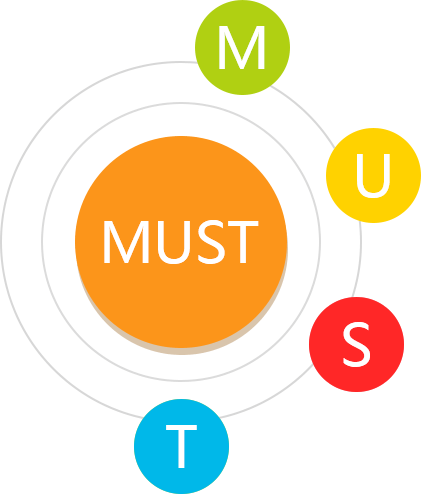
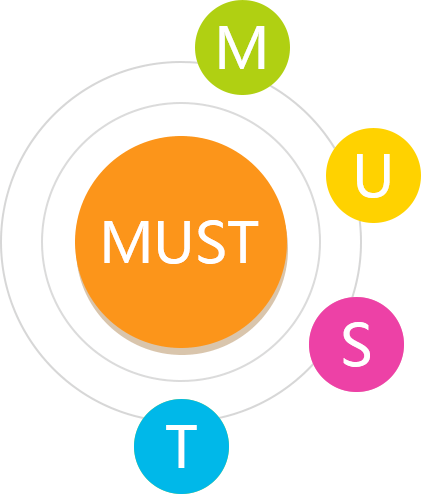
移动端头部

Changed region(s): [[0.7102, 0.5769, 0.9572, 0.8198]]

diff --git a/pags/public/header_s.html b/pags/public/header_s.html
@@ -1,0 +1,118 @@
+
+<!DOCTYPE html>
+<html lang="en">
+<head>
+    <meta charset="UTF-8">
+    <meta name="viewport" content="width=device-width, initial-scale=1.0">
+    <meta http-equiv="X-UA-Compatible" content="ie=edge">
+    <meta name="description" content="希望教育成立于2011年，以“MUST行为引导技术”为核心，旗下包括 “星希望康复中心”、“星希望网校”、“MUST研发中心”三大业务板块。致力于为孤独症儿童和家庭及康复训练师，提供评估、干预、培训一体化的专业服务。">
+    <meta name="keywords" content="自闭症、孤独症、儿童自闭症语言训练、自闭症儿童训练、自闭症儿童、自闭症儿童的特征、儿童孤独症障碍、孤独症儿童训练方法、自闭症儿童干预方法、轻微自闭症的训练方法、自闭症怎么治、自闭症儿童康复训练、自闭症干预方法、自闭症aba的训练方法、自闭症儿童康复中心、自闭症最佳干预时间">  
+    <title>星希望官网——15年专注于自闭症/孤独症家庭康复训练教育</title>
+    <link rel="stylesheet" href="/css/public/reset.css">
+    <link rel="stylesheet" href="/css/public/header_s.css" media="all" />
+    <script src="/js/plugins/jquery-1.11.3.js"></script>
+    <script type="text/javascript">
+        //移动端   设计图纸是750px
+        $(function(){
+                document.querySelector("html").style.opacity = 1;
+                $("html").css("fontSize",parseInt($(window).width()) / 7.5 +"px");
+                $(window).resize(function(){
+                    $("html").css("fontSize",parseInt($(window).width()) / 7.5 +"px");
+                    document.getElementsByTagName("html")[0].style.opacity = 1;
+
+                });
+            
+        });
+    </script>
+</head>
+<body>
+<header>
+    <ul class="header clearfix">
+        <li class="h-left fl"></li>
+        <li class="logo fl"></li>
+        <li class="h-right fr">
+            <p class="one">全国咨询热线</p>
+            <p class="two">010-52668752</p>     
+        </li>
+        <ul class="nav" id="nav">
+                <li class="list1 close">
+                    导航
+                   <div></div> 
+                </li>
+                <a href="javascript:"><li class="list1"> 首页</li></a>
+                <li class="list1 button">
+                    MUST课程体系
+                    <i></i>
+                    <ul class="list2">
+                        <a href="javascript:"><li>MUST技术</li></a>
+                        <a href="javascript:"><li>MUST课程</li></a>
+                        <a href="javascript:"><li>师资力量</li></a>
+                        <a href="javascript:"><li>成功案例</li></a>
+                    </ul>
+                </li>
+                <a href="javascript:"><li class="list1"> 星希望网校</li></a>
+                <li class="list1 button">
+                    关于我们
+                    <i></i>
+                    <ul class="list2">
+                        <a href="javascript:"><li>星希望简介</li></a>
+                        <a href="javascript:"><li>发展历程</li></a>
+                        <a href="javascript:"><li>创始人简介</li></a>
+                        <a href="javascript:"><li>品牌故事</li></a>
+                        <a href="javascript:"><li>所获荣誉</li></a>
+                        <a href="javascript:"><li>校区概况</li></a>
+                    </ul>
+                </li>
+                <li class="list1 button">
+                    新闻中心
+                    <i></i>
+                    <ul class="list2">
+                        <a href="javascript:"><li>最新动态</li></a>
+                        <a href="javascript:"><li>行业新闻</li></a>
+                        <a href="javascript:"><li>公益活动</li></a>
+                        <a href="javascript:"><li>媒体报道</li></a>
+                    </ul>
+                </li>
+                <li class="list1 button">
+                    爱心社
+                    <i></i>
+                    <ul class="list2">
+                        <a href="javascript:"><li>志愿者招募</li></a>
+                        <a href="javascript:"><li>爱心捐赠</li></a>
+                    </ul>
+                </li>
+                
+            </ul>
+        </ul>
+    </header>
+   <script>
+  
+   $(".h-left").click(function(){
+     $("#nav").css("display","block")
+   })
+   $(".close>div").click(function(){
+     $("#nav").css("display","none")
+   })
+   $(document).ready(function(e) {
+    $(".button").click(function(e) {
+        $(".list2").toggle();
+        $(this).css("background","#f5a94f");
+    })
+});
+
+// $(".nav .button").click(function(){
+    
+//     $(".nav .button").each(function(){
+//         if($(".list2").css('display') === 'none'){
+//             $(this).css("dispaly","block");
+//             $(this).parent(".button").css("background","#f5a94f");
+//         }else{
+//             $(this).css("dispaly","none")
+//             $(this).parent(".button").css("background","#f39800");
+//         }
+//     });
+//   });
+   </script>
+    
+</body>
+</html>

diff --git a/css/public/header_s.less b/css/public/header_s.less
@@ -1,0 +1,84 @@
+header{
+    width: 100%;
+    height: 100%;
+}
+.header{
+   width:7.3rem;
+   margin: 0 auto;
+   height:.66rem;
+   padding-top: .14rem;
+   .h-left{
+       width: .38rem;
+       height: .34rem;
+       margin-top: .1rem;
+       background: url(../../img/index/nav.png);
+       background-size: 100% 100%;
+      
+   }
+   .logo{
+        width: 1.18rem;
+        height:.58rem;
+        background: url(../../images/logo.png);
+        background-size: 100% 100%;
+        margin:  0 1.89rem 0 2.2rem;
+   }
+   .h-right{
+        width: 1.2rem;
+        height: .38rem;
+        font-size: .16rem;
+        line-height: .24rem;
+        color: #666666;
+        margin-top: .05rem;
+        .two{
+            color: #00b8e9;
+            font-weight: bold;
+        }
+   }
+   .nav{
+    width: 2rem;
+    background: #f39800;
+    position: fixed;
+    top:0;
+    left:0;
+    font-size: .16rem;
+    display: none;
+  .list1{
+    width: 100%;
+    padding: .22rem 0;
+    border-bottom:.01rem solid #e1910b;
+    font-size: .16rem;
+    color: #f7f7f7;
+    text-indent: .3rem;
+    position: relative;
+    line-height:.28rem;
+    div{
+        width: .2rem;
+        height: .2rem;
+        position: absolute;
+        top:.2rem;
+        right:.2rem;
+        background: url(../../img/index/close.png);
+        background-size: 100% 100%;
+    }
+    i{
+        width: .16rem;
+        height:.09rem;
+        position: absolute;
+        top:.26rem;
+        right:.16rem;
+        background: url(../../img/index/jt.png);
+        background-size: 100% 100%;
+    }
+  } 
+  .list2{
+      display: none;
+      font-size: .14rem;
+      line-height:.28rem;
+      a{
+          color: #ffecda;
+      }
+  } 
+ 
+ 
+}
+}

diff --git a/css/public/header_s.css b/css/public/header_s.css
@@ -1,0 +1,81 @@
+header {
+  width: 100%;
+  height: 100%;
+}
+.header {
+  width: 7.3rem;
+  margin: 0 auto;
+  height: .66rem;
+  padding-top: .14rem;
+}
+.header .h-left {
+  width: .38rem;
+  height: .34rem;
+  margin-top: .1rem;
+  background: url(../../img/index/nav.png);
+  background-size: 100% 100%;
+}
+.header .logo {
+  width: 1.18rem;
+  height: .58rem;
+  background: url(../../images/logo.png);
+  background-size: 100% 100%;
+  margin: 0 1.89rem 0 2.2rem;
+}
+.header .h-right {
+  width: 1.2rem;
+  height: .38rem;
+  font-size: .16rem;
+  line-height: .24rem;
+  color: #666666;
+  margin-top: .05rem;
+}
+.header .h-right .two {
+  color: #00b8e9;
+  font-weight: bold;
+}
+.header .nav {
+  width: 2rem;
+  background: #f39800;
+  position: fixed;
+  top: 0;
+  left: 0;
+  font-size: .16rem;
+  display: none;
+}
+.header .nav .list1 {
+  width: 100%;
+  padding: .22rem 0;
+  border-bottom: .01rem solid #e1910b;
+  font-size: .16rem;
+  color: #f7f7f7;
+  text-indent: .3rem;
+  position: relative;
+  line-height: .28rem;
+}
+.header .nav .list1 div {
+  width: .2rem;
+  height: .2rem;
+  position: absolute;
+  top: .2rem;
+  right: .2rem;
+  background: url(../../img/index/close.png);
+  background-size: 100% 100%;
+}
+.header .nav .list1 i {
+  width: .16rem;
+  height: .09rem;
+  position: absolute;
+  top: .26rem;
+  right: .16rem;
+  background: url(../../img/index/jt.png);
+  background-size: 100% 100%;
+}
+.header .nav .list2 {
+  display: none;
+  font-size: .14rem;
+  line-height: .28rem;
+}
+.header .nav .list2 a {
+  color: #ffecda;
+}

diff --git a/css/static/index.less b/css/static/index.less
@@ -167,7 +167,7 @@
                 left: 404px;
                 top: 297px;
                 .m-c{
-                        color:#ff2727;
+                        color:#ed41a6;
                     }
             }
             .t{
@@ -672,8 +672,8 @@
             }
             .mask {
                 margin-top: -350px; 
-                opacity: 0.8;
-                filter:alpha(opacity=80);
+                opacity: 0.5;
+                filter:alpha(opacity=50);
             }
         }
     }

diff --git a/css/static/index.css b/css/static/index.css
@@ -168,7 +168,7 @@
   top: 297px;
 }
 .abstract .ab-c .circle .s .m-c {
-  color: #ff2727;
+  color: #ed41a6;
 }
 .abstract .ab-c .circle .t {
   left: 228px;
@@ -657,8 +657,8 @@
 }
 .expert .ex-list li:hover .mask {
   margin-top: -350px;
-  opacity: 0.8;
-  filter: alpha(opacity=80);
+  opacity: 0.5;
+  filter: alpha(opacity=50);
 }
 .mode {
   height: 877px;
